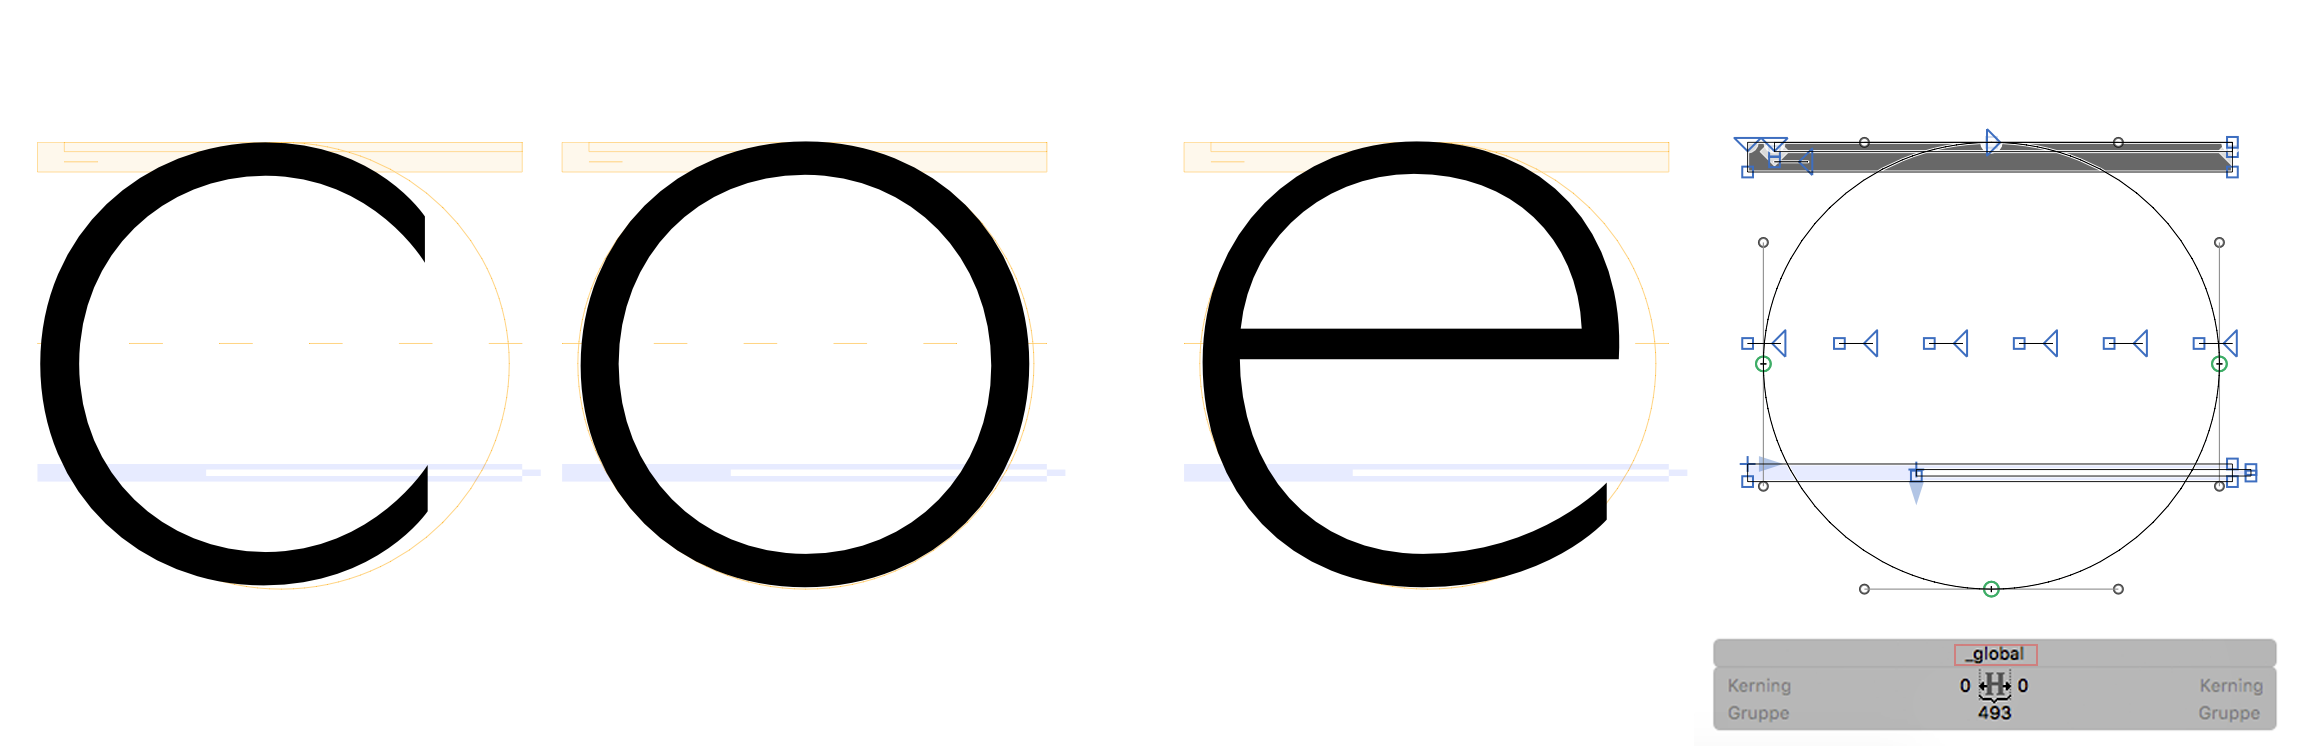
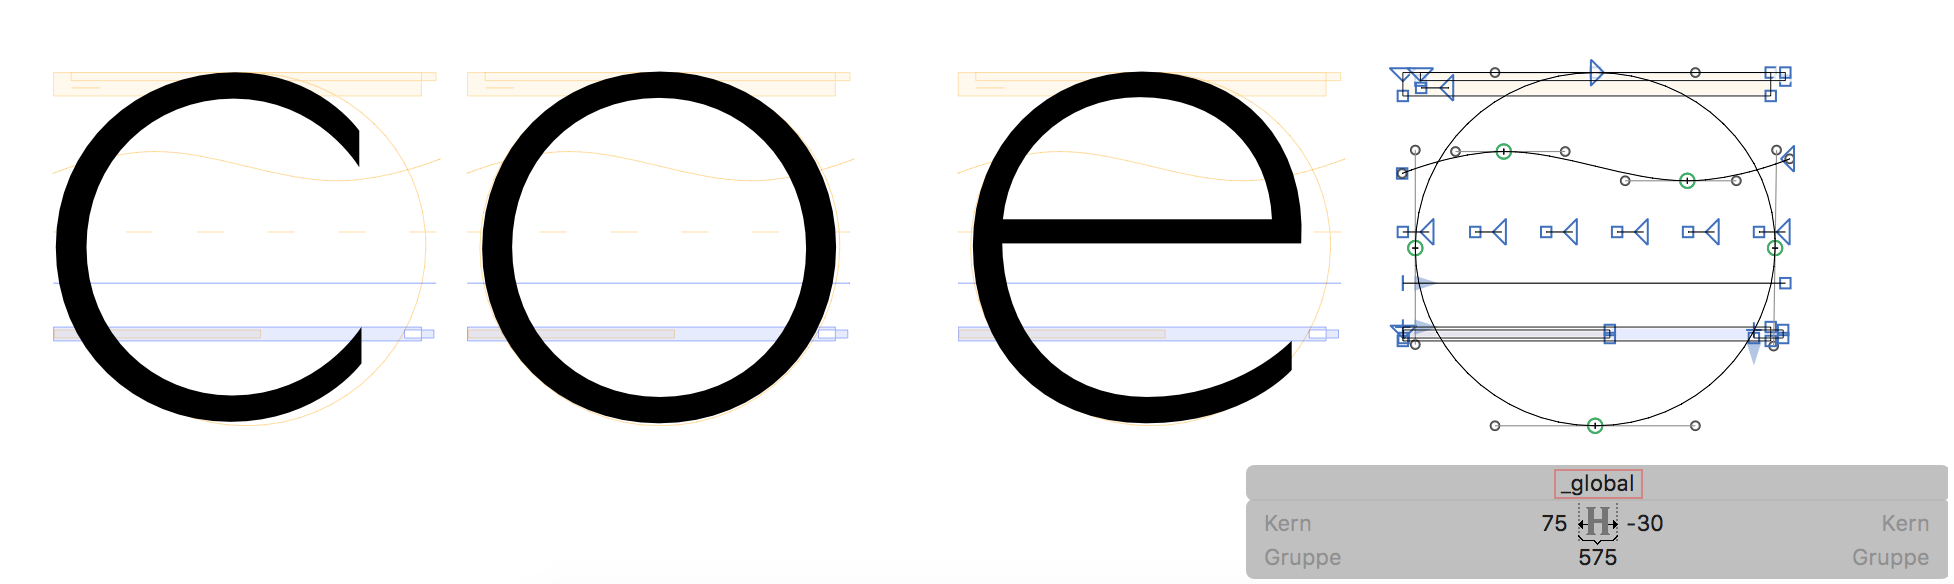
Fixed Compatibility / Fixed Feature

Changed region(s): [[0.0, 0.0925, 0.999, 1.0], [0.7492, 0.7089, 0.8741, 0.7397], [0.9365, 0.3082, 0.9678, 0.339]]

diff --git a/GlobalGlyph.glyphsReporter/Contents/Resources/GlobalGlyph.py b/GlobalGlyph.glyphsReporter/Contents/Resources/GlobalGlyph.py
@@ -1,6 +1,13 @@
 #!/usr/bin/env python
 # encoding: utf-8
 
+#~~~~~~~~~~~~~~~~~~~~~~~~~~~~~~~~~~~~~~~~~~~~~~~~~~~~~~~~~~~~~~~~~~~~~~~~~~~~~~
+
+# --> let me know if you have ideas for improving
+#     Nevu @Github
+
+#~~~~~~~~~~~~~~~~~~~~~~~~~~~~~~~~~~~~~~~~~~~~~~~~~~~~~~~~~~~~~~~~~~~~~~~~~~~~~~
+
 import objc
 from Foundation import *
 from AppKit import *
@@ -15,7 +22,6 @@ import GlyphsApp
 
 GlyphsReporterProtocol = objc.protocolNamed( "GlyphsReporter" )
 
-
 class GlobalGlyph ( NSObject, GlyphsReporterProtocol ):
 	
 	def init( self ):
@@ -27,7 +33,7 @@ class GlobalGlyph ( NSObject, GlyphsReporterProtocol ):
 			return self
 		except Exception as e:
 			self.logToConsole( "init: %s" % str(e) )
-
+	
 	def interfaceVersion( self ):
 		"""
 		Distinguishes the API version the plugin was built for. 
@@ -37,7 +43,7 @@ class GlobalGlyph ( NSObject, GlyphsReporterProtocol ):
 			return 1
 		except Exception as e:
 			self.logToConsole( "interfaceVersion: %s" % str(e) )
-	
+
 	def title( self ):
 		"""
 		This is the name as it appears in the menu in combination with 'Show'.
@@ -55,7 +61,7 @@ class GlobalGlyph ( NSObject, GlyphsReporterProtocol ):
 		If you are not sure, use 'return None'. Users can set their own shortcuts in System Prefs.
 		"""
 		try:
-			return "y"
+			return None
 		except Exception as e:
 			self.logToConsole( "keyEquivalent: %s" % str(e) )
 	
@@ -101,7 +107,6 @@ class GlobalGlyph ( NSObject, GlyphsReporterProtocol ):
 
 
 
-
 	def drawGlobalGlyph( self, Layer ):
 
 		Glyph = Layer.parent
@@ -122,7 +127,6 @@ class GlobalGlyph ( NSObject, GlyphsReporterProtocol ):
 		if globalGlyph is None:
 			return
 		thisLayer = globalGlyph.layers[activeMasterIndex]
-
 
 		#draw path AND components for strokes and form:
 
@@ -148,10 +152,11 @@ class GlobalGlyph ( NSObject, GlyphsReporterProtocol ):
 		if thisOpenBezierPath:
 			NSColor.colorWithCalibratedRed_green_blue_alpha_( 0.0, 0.0, 1.0, 0.1 ).set()
 			thisOpenBezierPath.fill()
+			NSColor.colorWithCalibratedRed_green_blue_alpha_( 0.0, 0.0, 1.0, 0.9 ).set()
+			thisOpenBezierPath.stroke()
 
-			# SEEMS NOT TO WORK FOR STROKES ONLY ...
-			# NSColor.colorWithCalibratedRed_green_blue_alpha_( 0.0, 0.0, 1.0, 1.0 ).set()
-			# thisOpenBezierPath.stroke()
+
+
 
 
 	def drawBackgroundForLayer_( self, Layer ):
@@ -176,12 +181,51 @@ class GlobalGlyph ( NSObject, GlyphsReporterProtocol ):
 
 
 
+	def drawTextAtPoint( self, text, textPosition, fontSize=14.0, fontColor=NSColor.colorWithCalibratedRed_green_blue_alpha_( 0.0, 0.2, 0.0, 0.3 ) ):
+		"""
+		Use self.drawTextAtPoint( "blabla", myNSPoint ) to display left-aligned text at myNSPoint.
+		"""
+		try:
+			glyphEditView = self.controller.graphicView()
+			currentZoom = self.getScale()
+			fontAttributes = { 
+				NSFontAttributeName: NSFont.labelFontOfSize_( fontSize/currentZoom ),
+				NSForegroundColorAttributeName: fontColor }
+			displayText = NSAttributedString.alloc().initWithString_attributes_( text, fontAttributes )
+			textAlignment = 0 # top left: 6, top center: 7, top right: 8, center left: 3, center center: 4, center right: 5, bottom left: 0, bottom center: 1, bottom right: 2
+			glyphEditView.drawText_atPoint_alignment_( displayText, textPosition, textAlignment )
+		except Exception as e:
+			self.logToConsole( "drawTextAtPoint: %s" % str(e) )
+	
 	def needsExtraMainOutlineDrawingForInactiveLayer_( self, Layer ):
 		"""
-		Return False to disable the black outline. Otherwise remove the method.
+		Whatever you draw here will be displayed in the Preview at the bottom.
+		Remove the method or return True if you want to leave the Preview untouched.
+		Return True to leave the Preview as it is and draw on top of it.
+		Return False to disable the Preview and draw your own.
+		In that case, don't forget to add Bezier methods like in drawForegroundForLayer_(),
+		otherwise users will get an empty Preview.
 		"""
-		return False
+		return True
 	
+	def getHandleSize( self ):
+		"""
+		Returns the current handle size as set in user preferences.
+		Use: self.getHandleSize() / self.getScale()
+		to determine the right size for drawing on the canvas.
+		"""
+		try:
+			Selected = NSUserDefaults.standardUserDefaults().integerForKey_( "GSHandleSize" )
+			if Selected == 0:
+				return 5.0
+			elif Selected == 2:
+				return 10.0
+			else:
+				return 7.0 # Regular
+		except Exception as e:
+			self.logToConsole( "getHandleSize: HandleSize defaulting to 7.0. %s" % str(e) )
+			return 7.0
+
 	def getScale( self ):
 		"""
 		self.getScale() returns the current scale factor of the Edit View UI.

diff --git a/README.md b/README.md
@@ -42,8 +42,7 @@ Download or clone the whole `Glyphsapp-Plugins`repo (it will contain more plugin
 
 ### Known issues / ToDo
 
-- Can't draw strokes on open contours
-- For now there seems to be a Bug, that Inactive Layers wouldn't be shown ... I try to fix
+- none
 
 
 ### Pull Requests
